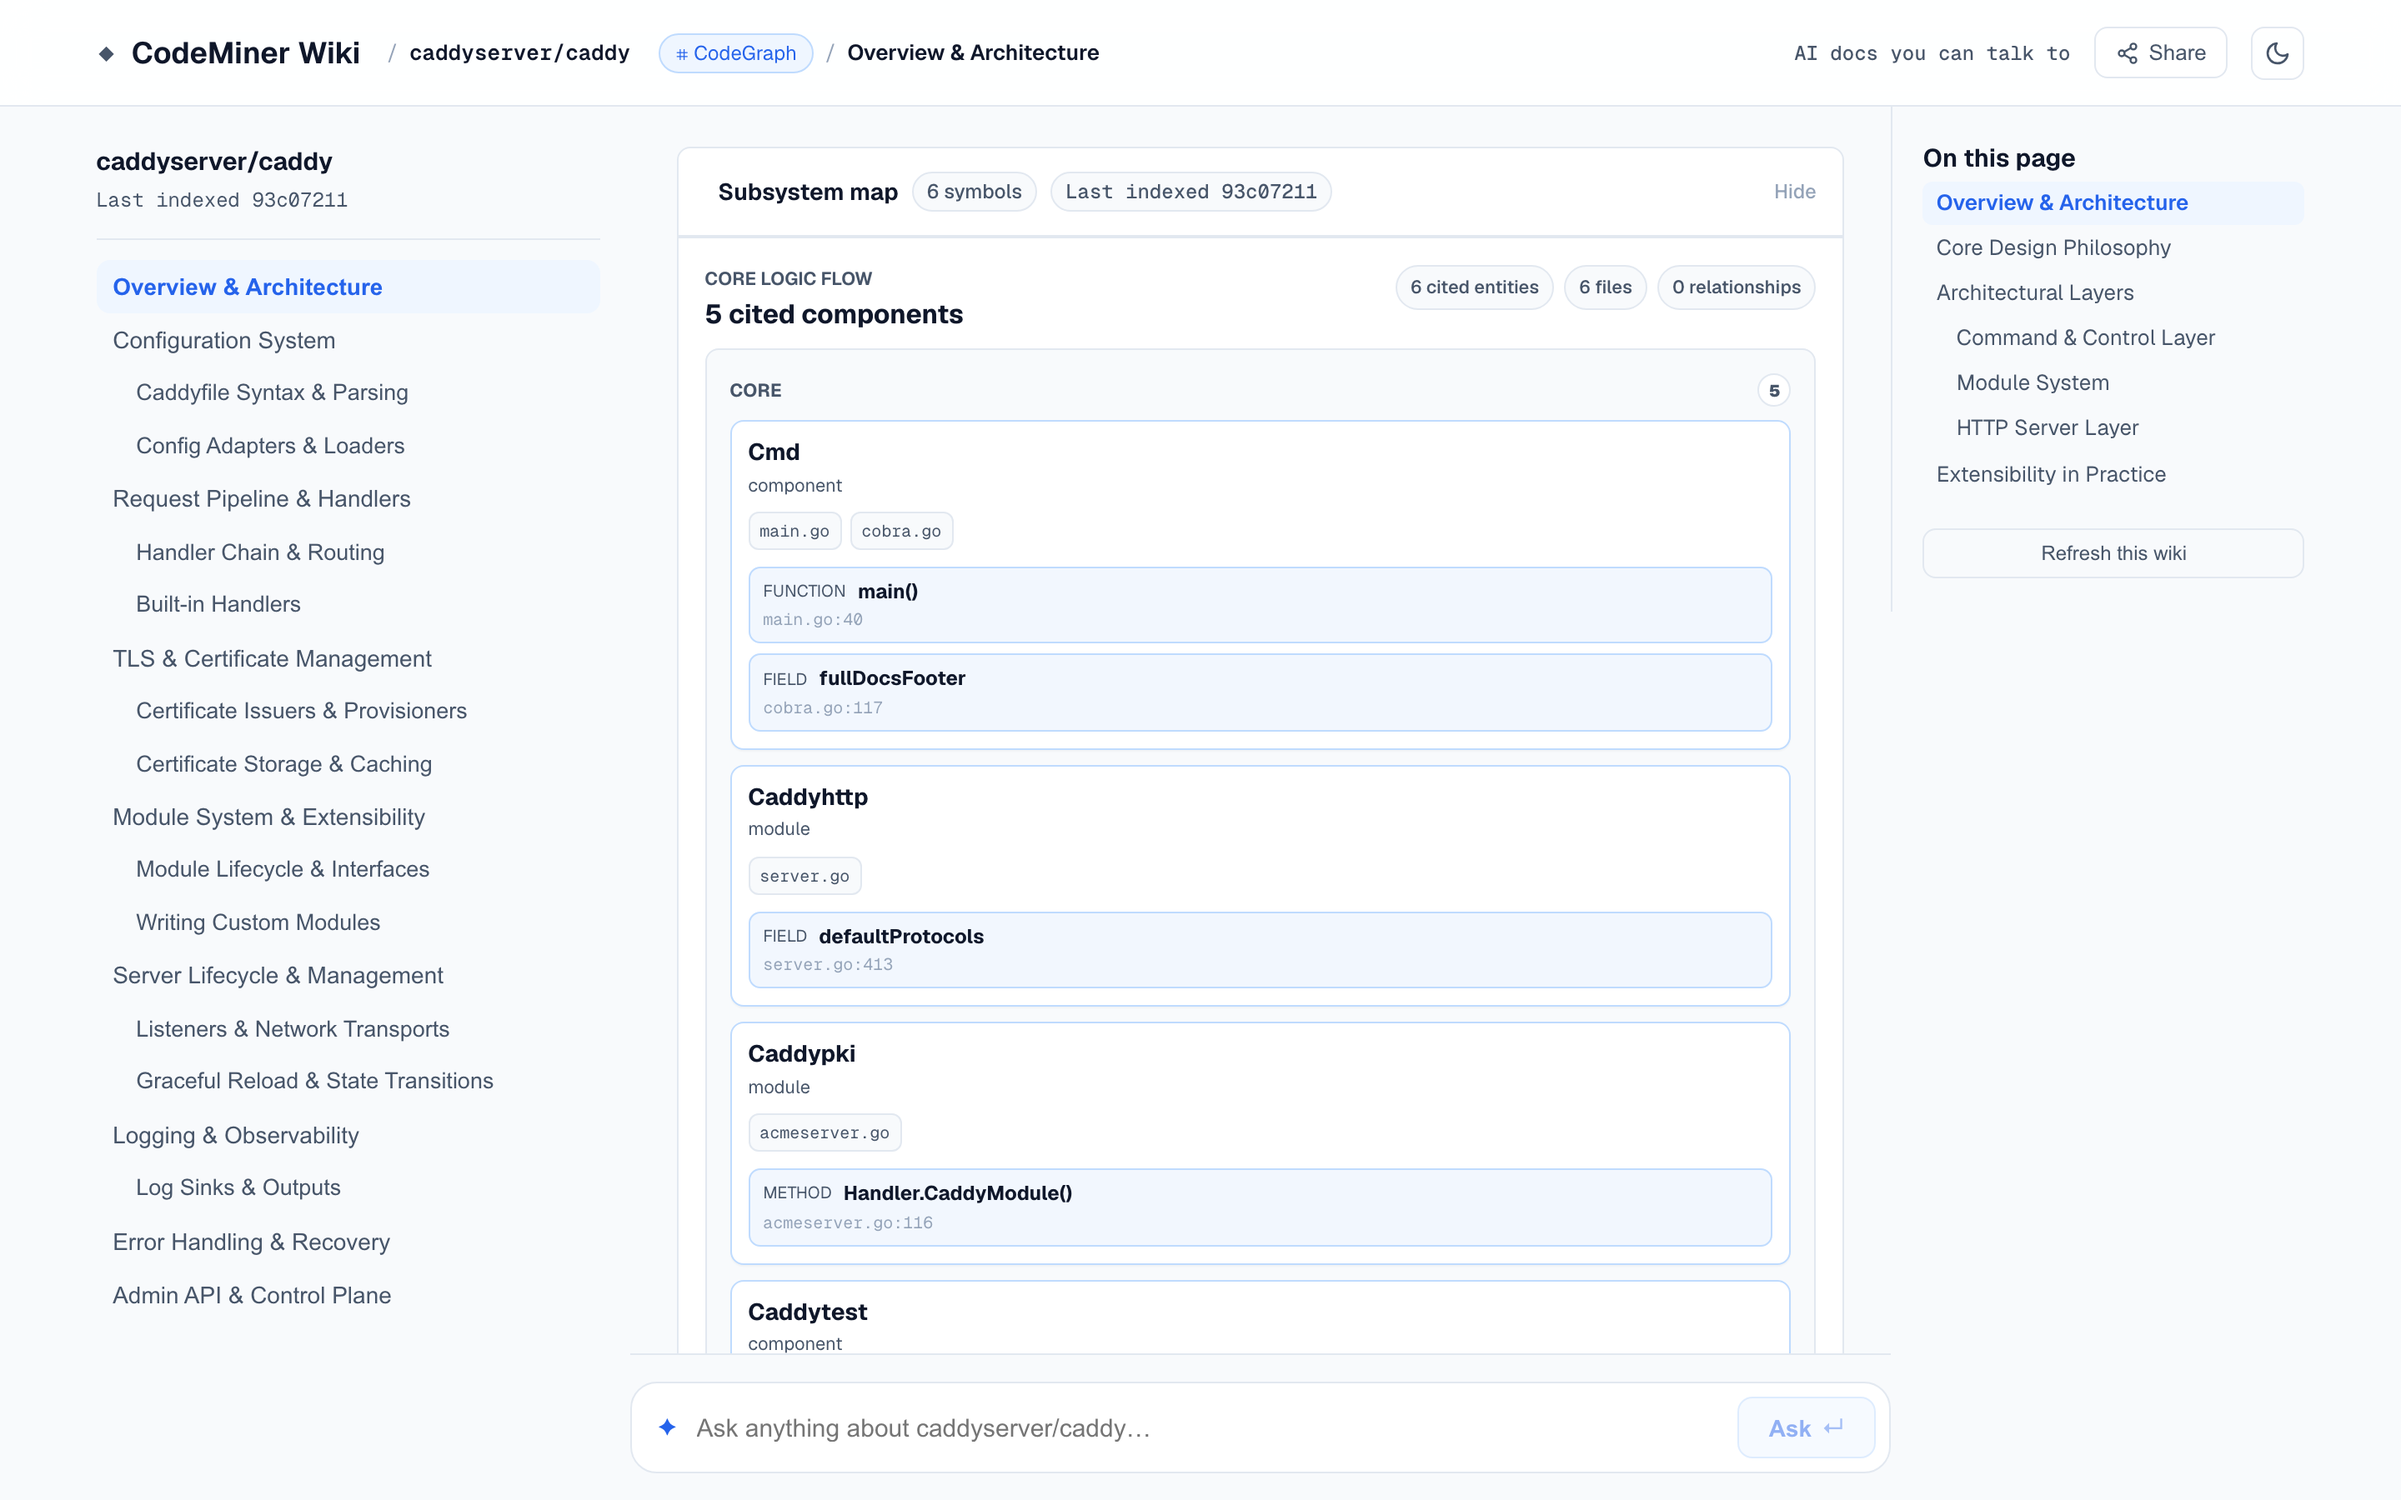
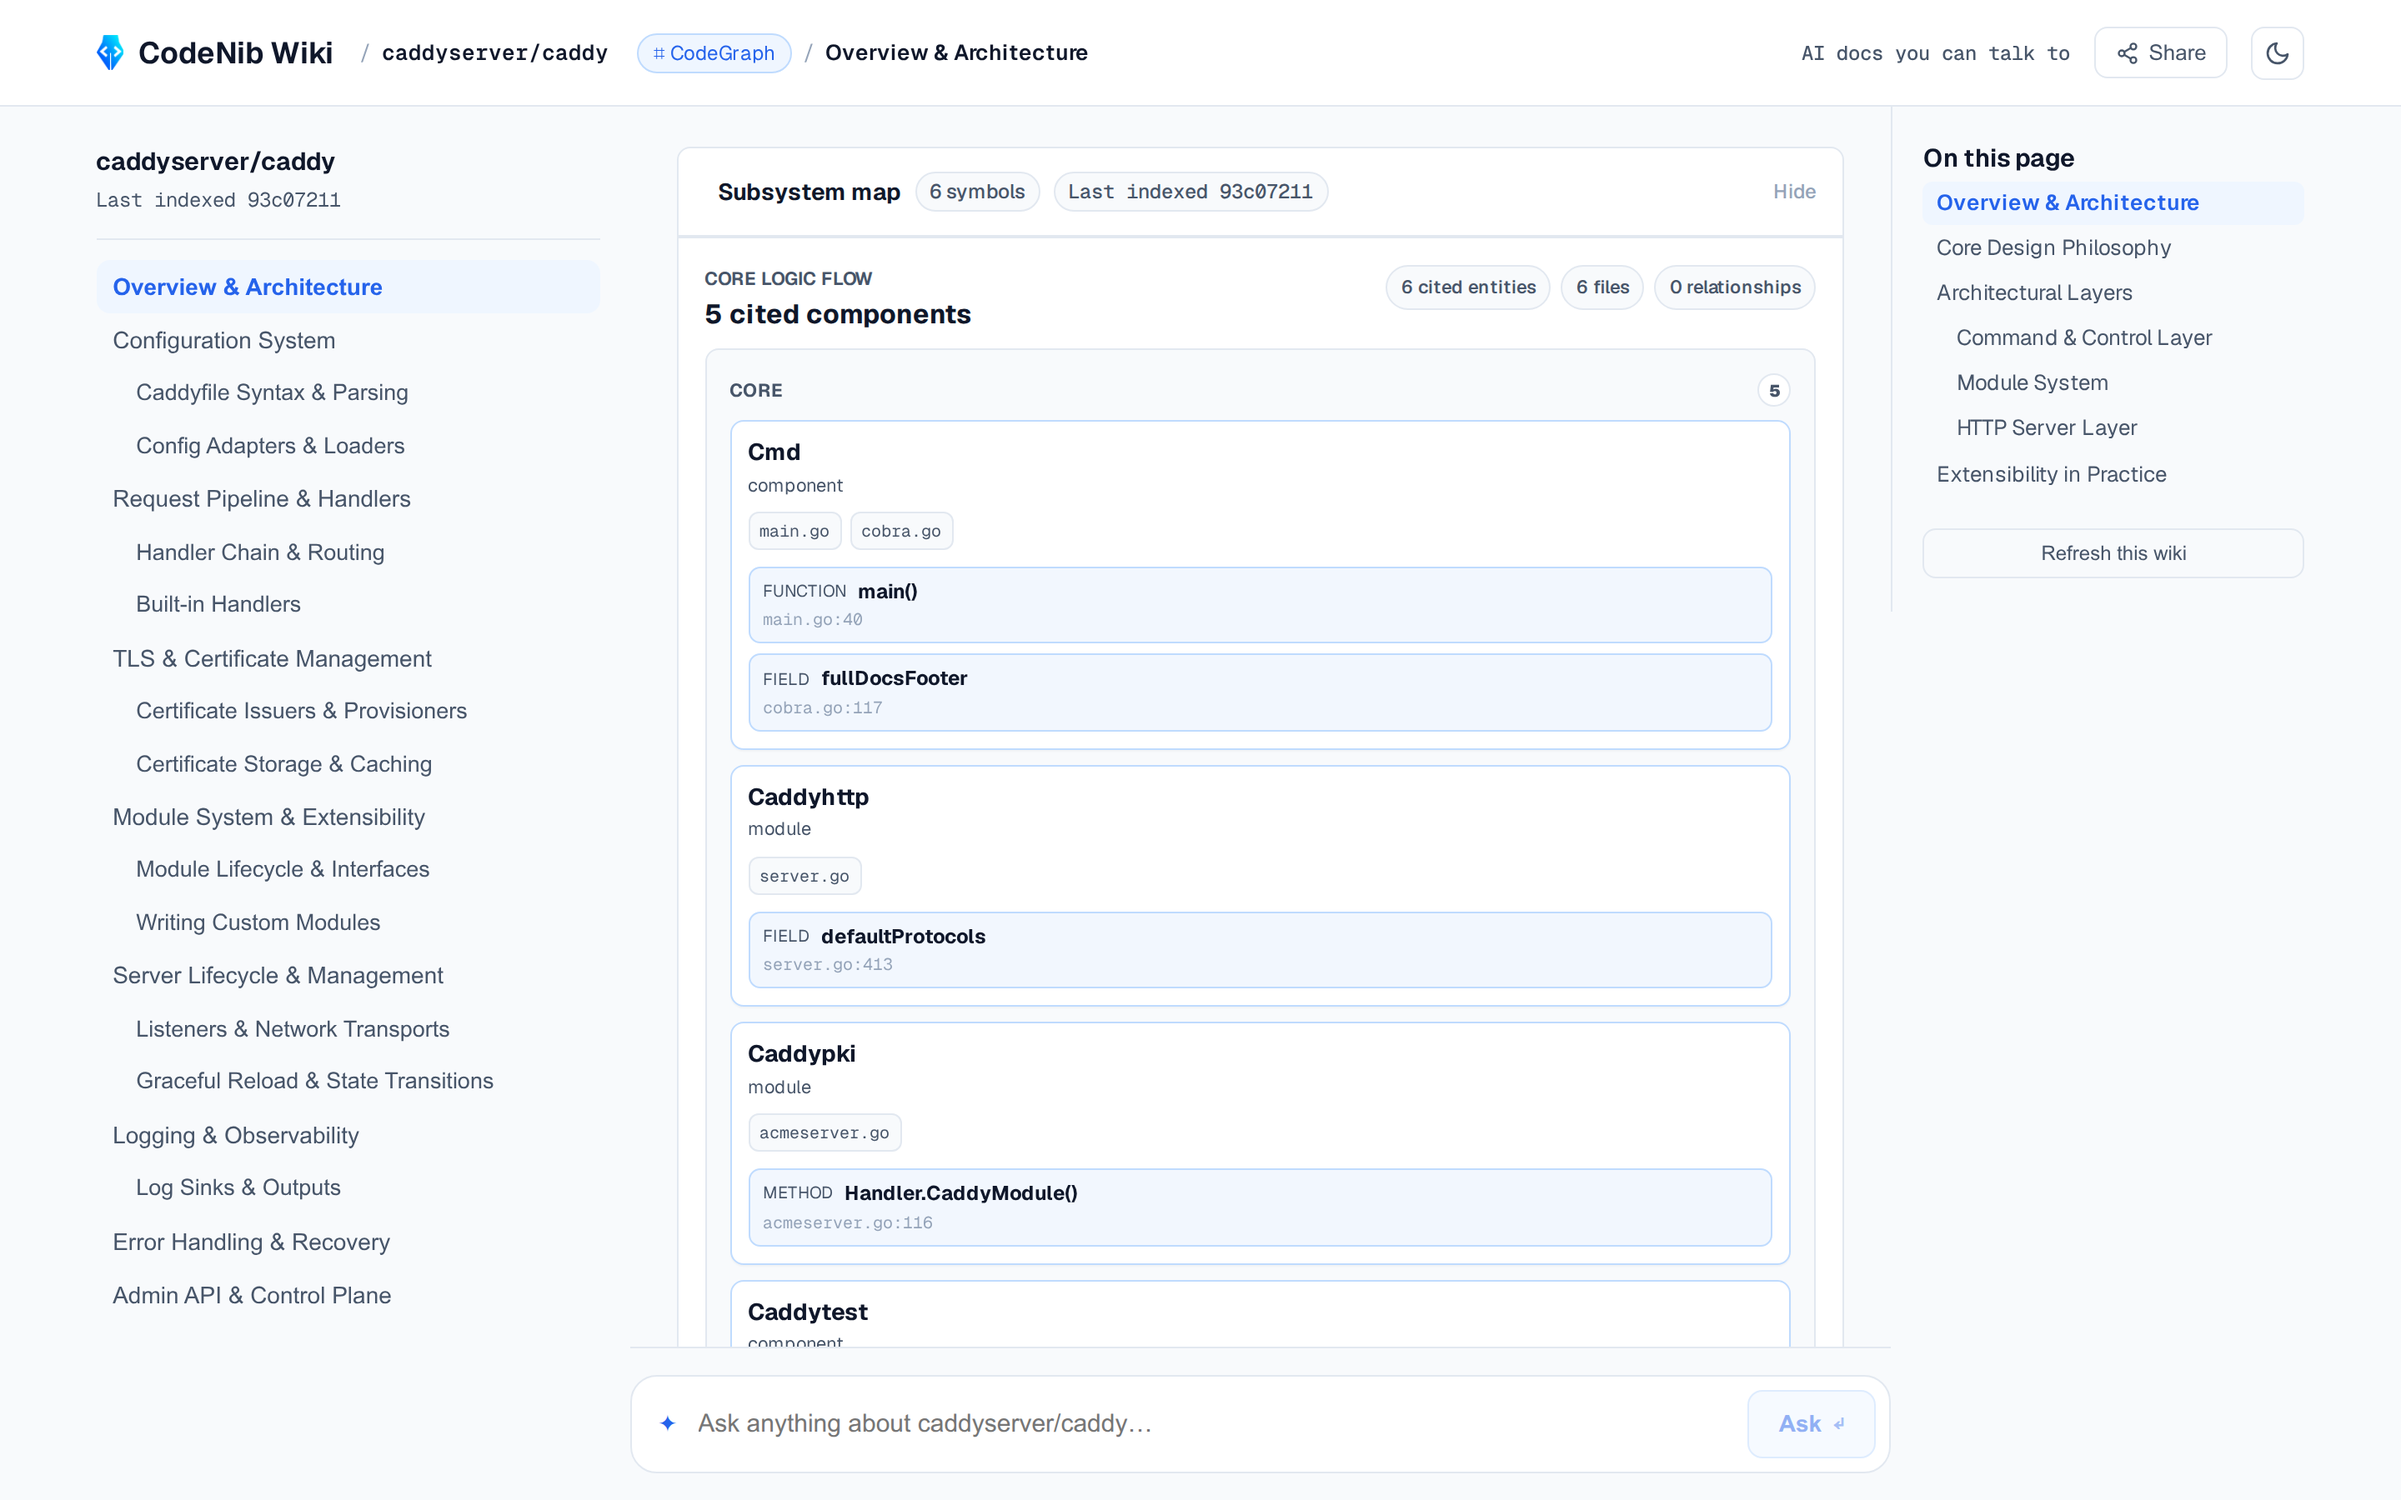
fix(landing): harden public launch assets
Use the canonical CodeNib SVGs, ship the Geist license, provide a current static poster, preserve content without JavaScript, and make embedded previews non-interactive and lazy where possible. Replace unavailable docs links and add basic social metadata and deployment notes.\n\nVerified with desktop/mobile/no-JavaScript Playwright checks, Next production build, TypeScript, Vitest, and pre-commit hooks.

diff --git a/landing/index.html b/landing/index.html
@@ -12,8 +12,12 @@ SPDX-License-Identifier: Apache-2.0
 <meta property="og:title" content="CodeNib">
 <meta property="og:description" content="Understand any codebase in minutes. Wikis, dependency maps, and cited answers, compiled from a symbol graph.">
 <meta property="og:image" content="https://codenib.ai/assets/shots/wiki-light.png">
-<meta property="og:url" content="https://codenib.ai">
-<link rel="icon" href="assets/mark.png">
+<meta property="og:type" content="website">
+<meta property="og:url" content="https://codenib.ai/">
+<meta name="twitter:card" content="summary_large_image">
+<link rel="canonical" href="https://codenib.ai/">
+<link rel="icon" href="assets/codenib-icon.svg" type="image/svg+xml">
+<script>document.documentElement.classList.add("js")</script>
 <style>
 /* Fonts: self-hosted Geist (variable) */
 @font-face {
@@ -114,7 +118,7 @@ header {
   height: 38px; border-bottom: 1px solid var(--line); background: var(--subtle);
 }
 .frame-bar span {
-  font-family: "Geist Mono", monospace; font-size: 12px; color: var(--ink-3);
+  font-family: "Geist Mono", monospace; font-size: 12px; color: var(--ink-2);
   background: var(--bg); border: 1px solid var(--line);
   padding: 3px 14px; border-radius: 99px;
 }
@@ -122,11 +126,15 @@ header {
 /* Live product embeds: the real demo rendered in a scaled iframe. A fixed
    design width keeps the demo's desktop layout; the scale factor adapts to
    whatever container (or phone) the embed lands in. */
-.live { position: relative; overflow: hidden; background: var(--subtle); }
+.live {
+  position: relative; overflow: hidden;
+  background: var(--subtle) url("assets/shots/wiki-light.png") center top / cover no-repeat;
+}
 .live > iframe {
   position: absolute; top: 0; left: 0; border: 0;
   transform-origin: 0 0; pointer-events: none;
 }
+html:not(.js) .live > iframe { display: none; }
 .live > a.cover { position: absolute; inset: 0; z-index: 2; }
 
 /* ---- sections ---- */
@@ -194,8 +202,8 @@ footer { border-top: 1px solid var(--line); }
   .d1 { animation-delay: .06s; } .d2 { animation-delay: .14s; }
   .d3 { animation-delay: .22s; } .d4 { animation-delay: .34s; }
   @keyframes rise { to { opacity: 1; transform: none; } }
-  .reveal { opacity: 0; transform: translateY(18px); transition: opacity .6s cubic-bezier(.16,1,.3,1), transform .6s cubic-bezier(.16,1,.3,1); }
-  .reveal.in { opacity: 1; transform: none; }
+  .js .reveal { opacity: 0; transform: translateY(18px); transition: opacity .6s cubic-bezier(.16,1,.3,1), transform .6s cubic-bezier(.16,1,.3,1); }
+  .js .reveal.in { opacity: 1; transform: none; }
   .cell { transition: border-color .2s, transform .2s, opacity .6s cubic-bezier(.16,1,.3,1); }
   .cell:hover { border-color: var(--ink-3); }
 }
@@ -224,9 +232,9 @@ footer { border-top: 1px solid var(--line); }
 <header>
   <div class="wrap nav">
     <a class="brand" href="/">
-      <img src="assets/logo.png" alt="CodeNib">
+      <img src="assets/codenib-logo.svg" alt="CodeNib">
     </a>
-    <a class="link" href="https://docs.codenib.ai">Docs</a>
+    <a class="link" href="https://github.com/sysevol-ai/CodeMiner#readme">Docs</a>
     <a class="link gh" href="https://github.com/sysevol-ai/CodeMiner" aria-label="Source on GitHub">
       <svg viewBox="0 0 24 24" fill="currentColor" aria-hidden="true"><path d="M12 .297c-6.63 0-12 5.373-12 12 0 5.303 3.438 9.8 8.205 11.385.6.113.82-.258.82-.577 0-.285-.01-1.04-.015-2.04-3.338.724-4.042-1.61-4.042-1.61C4.422 18.07 3.633 17.7 3.633 17.7c-1.087-.744.084-.729.084-.729 1.205.084 1.838 1.236 1.838 1.236 1.07 1.835 2.809 1.305 3.495.998.108-.776.417-1.305.76-1.605-2.665-.3-5.466-1.332-5.466-5.93 0-1.31.465-2.38 1.235-3.22-.135-.303-.54-1.523.105-3.176 0 0 1.005-.322 3.3 1.23.96-.267 1.98-.399 3-.405 1.02.006 2.04.138 3 .405 2.28-1.552 3.285-1.23 3.285-1.23.645 1.653.24 2.873.12 3.176.765.84 1.23 1.91 1.23 3.22 0 4.61-2.805 5.625-5.475 5.92.42.36.81 1.096.81 2.22 0 1.606-.015 2.896-.015 3.286 0 .315.21.69.825.57C20.565 22.092 24 17.592 24 12.297c0-6.627-5.373-12-12-12"/></svg>
     </a>
@@ -242,7 +250,7 @@ footer { border-top: 1px solid var(--line); }
         <p class="sub rise d1">CodeNib is a multi-view data system that serves codebase context to coding agents.</p>
         <div class="ctas rise d2">
           <a class="btn btn-primary btn-lg" href="https://demo.codenib.ai">Open the demo</a>
-          <a class="btn btn-ghost btn-lg" href="https://docs.codenib.ai">Read the docs</a>
+          <a class="btn btn-ghost btn-lg" href="https://github.com/sysevol-ai/CodeMiner#readme">Read the docs</a>
         </div>
       </div>
       <div class="traits rise d2">
@@ -274,7 +282,8 @@ footer { border-top: 1px solid var(--line); }
         <div class="frame-bar"><span>demo.codenib.ai</span></div>
         <div class="live" data-min-w="1100" style="aspect-ratio: 1440 / 860">
           <iframe src="https://demo.codenib.ai/caddyserver__caddy"
-                  title="Live CodeNib wiki for caddyserver/caddy"></iframe>
+                  title="Live CodeNib wiki for caddyserver/caddy"
+                  tabindex="-1" inert aria-hidden="true"></iframe>
           <a class="cover" href="https://demo.codenib.ai/caddyserver__caddy"
              aria-label="Open caddyserver/caddy in the demo"></a>
         </div>
@@ -292,7 +301,8 @@ footer { border-top: 1px solid var(--line); }
           <p>Every answer cites the file and line it came from. Click a citation to open the source.</p>
           <div class="live" data-min-w="1100">
             <iframe src="https://demo.codenib.ai/caddyserver__caddy/ask"
-                    title="Ask a question about caddyserver/caddy"></iframe>
+                    title="Ask a question about caddyserver/caddy"
+                    loading="lazy" tabindex="-1" inert aria-hidden="true"></iframe>
             <a class="cover" href="https://demo.codenib.ai/caddyserver__caddy/ask"
                aria-label="Ask a question in the demo"></a>
           </div>
@@ -316,7 +326,8 @@ footer { border-top: 1px solid var(--line); }
           </div>
           <div class="live" data-min-w="1100">
             <iframe src="https://demo.codenib.ai/"
-                    title="Repositories indexed in the CodeNib demo"></iframe>
+                    title="Repositories indexed in the CodeNib demo"
+                    loading="lazy" tabindex="-1" inert aria-hidden="true"></iframe>
             <a class="cover" href="https://demo.codenib.ai/"
                aria-label="Browse indexed repositories in the demo"></a>
           </div>
@@ -330,7 +341,7 @@ footer { border-top: 1px solid var(--line); }
       <h2 class="reveal">Point it at a codebase.</h2>
       <div class="ctas reveal">
         <a class="btn btn-primary btn-lg" href="https://demo.codenib.ai">Open the demo</a>
-        <a class="btn btn-ghost btn-lg" href="https://docs.codenib.ai">Read the docs</a>
+        <a class="btn btn-ghost btn-lg" href="https://github.com/sysevol-ai/CodeMiner#readme">Read the docs</a>
       </div>
     </div>
   </div>
@@ -340,7 +351,7 @@ footer { border-top: 1px solid var(--line); }
   <div class="wrap foot">
     <span class="brand">codenib.ai</span>
     <span class="spacer"></span>
-    <a href="https://docs.codenib.ai">Docs</a>
+    <a href="https://github.com/sysevol-ai/CodeMiner#readme">Docs</a>
     <a href="https://demo.codenib.ai">Demo</a>
     <a href="https://github.com/sysevol-ai/CodeMiner">GitHub</a>
     <span>© 2026 CodeNib</span>

diff --git a/web/app/layout.tsx b/web/app/layout.tsx
@@ -7,7 +7,7 @@ export const metadata: Metadata = {
   title: "CodeNib Wiki · AI documentation you can talk to",
   description:
     "Browse AI-generated, source-grounded documentation for indexed repositories — and ask questions answered with citations, powered by CodeMiner.",
-  icons: { icon: "/codenib-mark.png" },
+  icons: { icon: "/codenib-icon.svg" },
 };
 
 // Set the theme before paint to avoid a flash of the wrong theme.

diff --git a/web/components/Header.tsx b/web/components/Header.tsx
@@ -74,7 +74,7 @@ export default function Header({
   return (
     <header className="site-header">
       <Link href="/" className="brand">
-        <img className="brand-mark" src="/codenib-mark.png" alt="" /> CodeNib Wiki
+        <img className="brand-mark" src="/codenib-icon.svg" alt="" /> CodeNib Wiki
       </Link>
       {center}
       <div className="header-right">

diff --git a/landing/README.md b/landing/README.md
@@ -1,0 +1,13 @@
+# CodeNib landing page
+
+This directory is a static site with no build step.
+
+Run it locally from the repository root:
+
+```bash
+python -m http.server 7870 --directory landing
+```
+
+Deploy `landing/` as the document root for `codenib.ai`. The product previews
+embed `https://demo.codenib.ai`; when that service is unavailable, the shipped
+wiki screenshot remains as the visual fallback.
